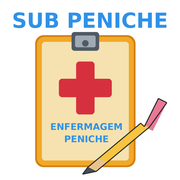
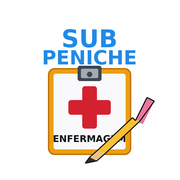
Ícone PWA mais legível no círculo do telemóvel
SUB e PENICHE em duas linhas, dentro da zona segura, com
ENFERMAGEM só na prancheta.

diff --git a/src/routes/__root.tsx b/src/routes/__root.tsx
@@ -22,8 +22,8 @@ export const Route = createRootRoute({
       { name: "mobile-web-app-capable", content: "yes" },
     ],
     links: [
-      { rel: "icon", type: "image/png", href: "/icon-192.png" },
-      { rel: "apple-touch-icon", href: "/apple-touch-icon.png" },
+      { rel: "icon", type: "image/png", href: "/icon-192.png?v=3" },
+      { rel: "apple-touch-icon", href: "/apple-touch-icon.png?v=3" },
       { rel: "manifest", href: "/manifest.webmanifest" },
       { rel: "stylesheet", href: appCss },
       { rel: "preconnect", href: "https://fonts.googleapis.com" },
